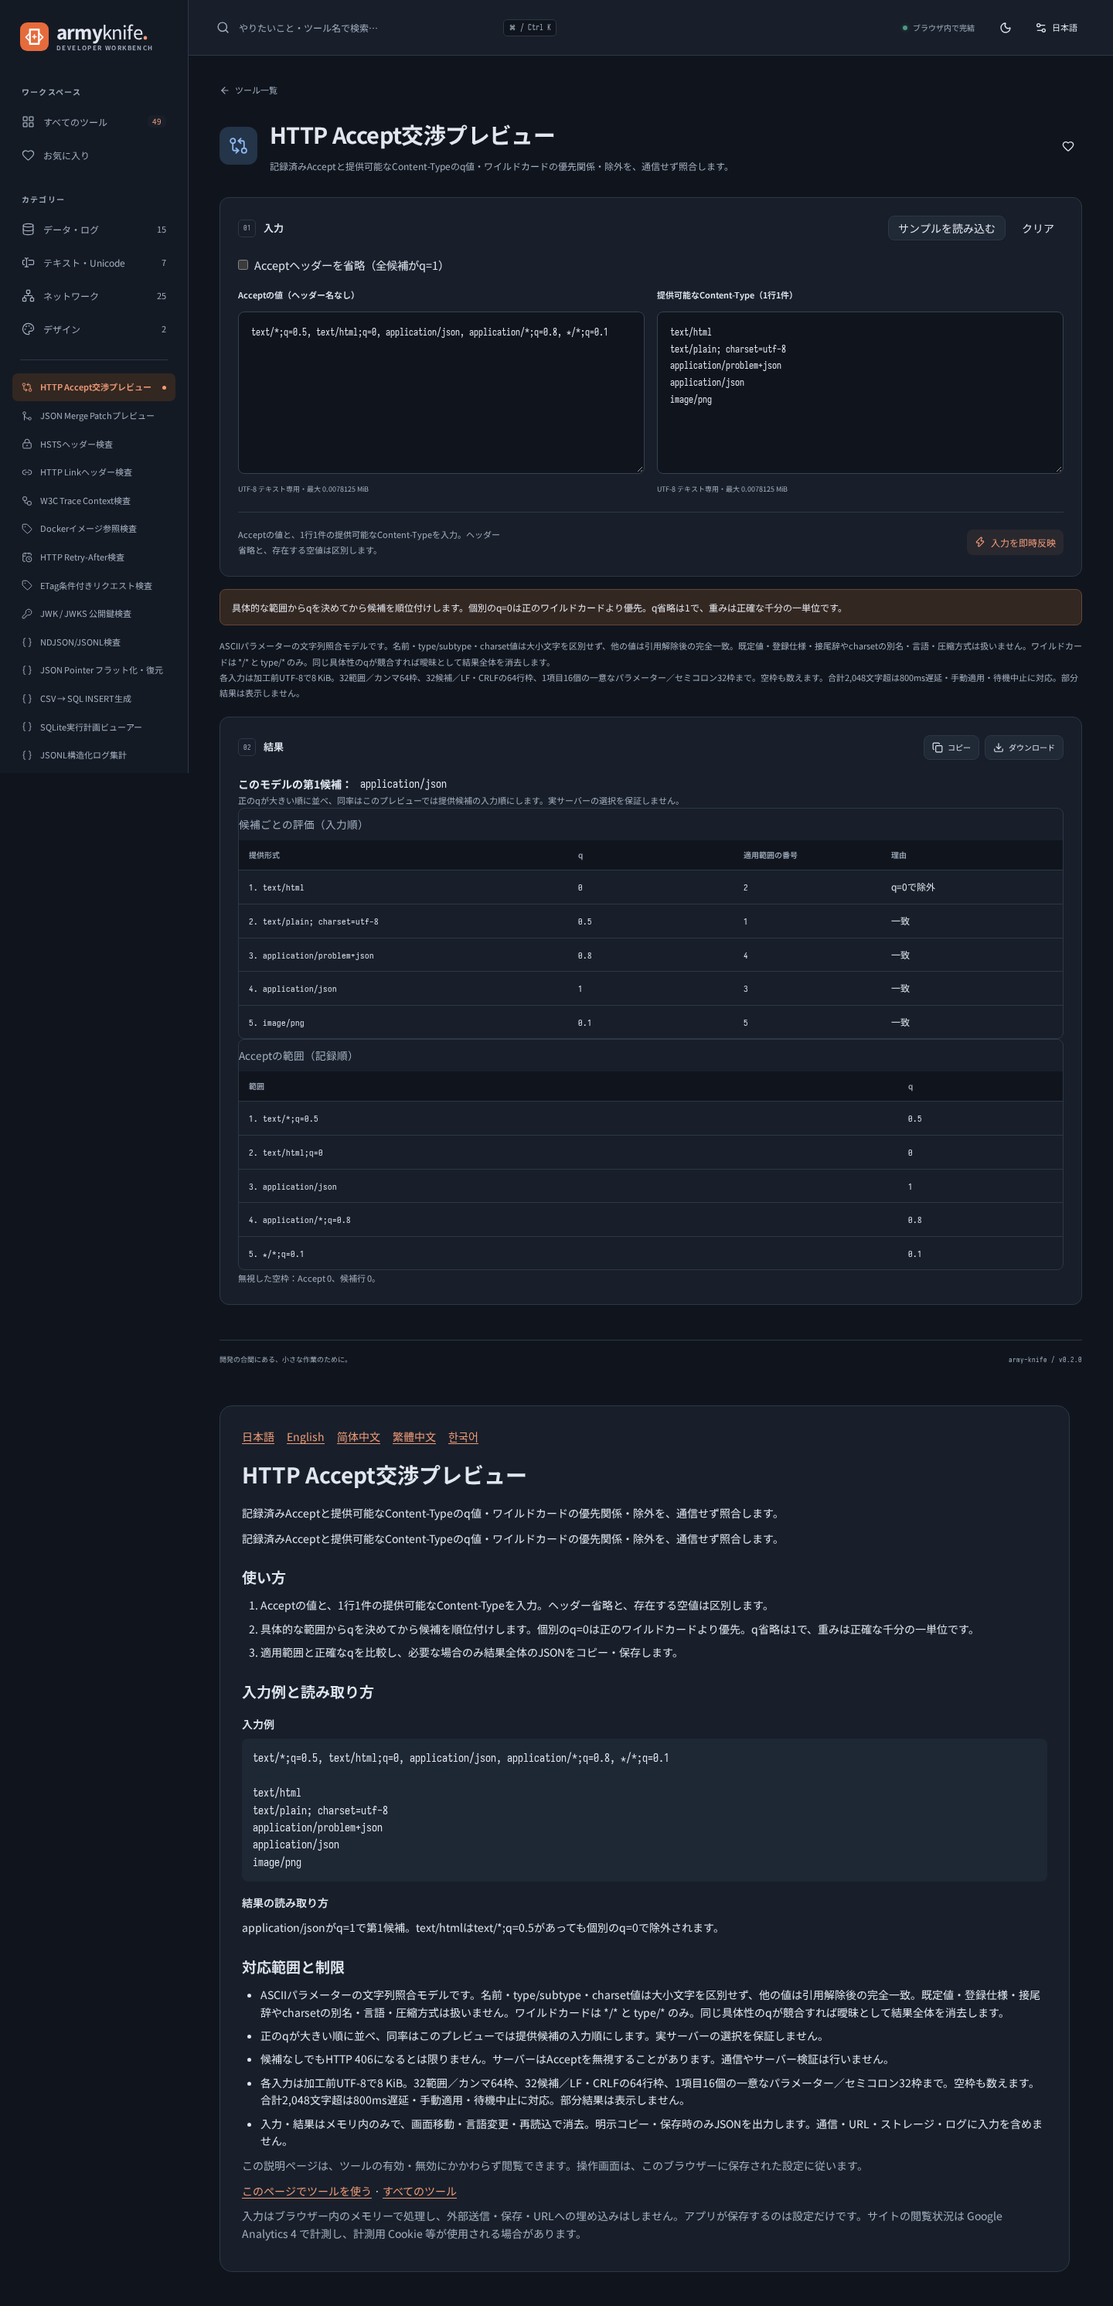
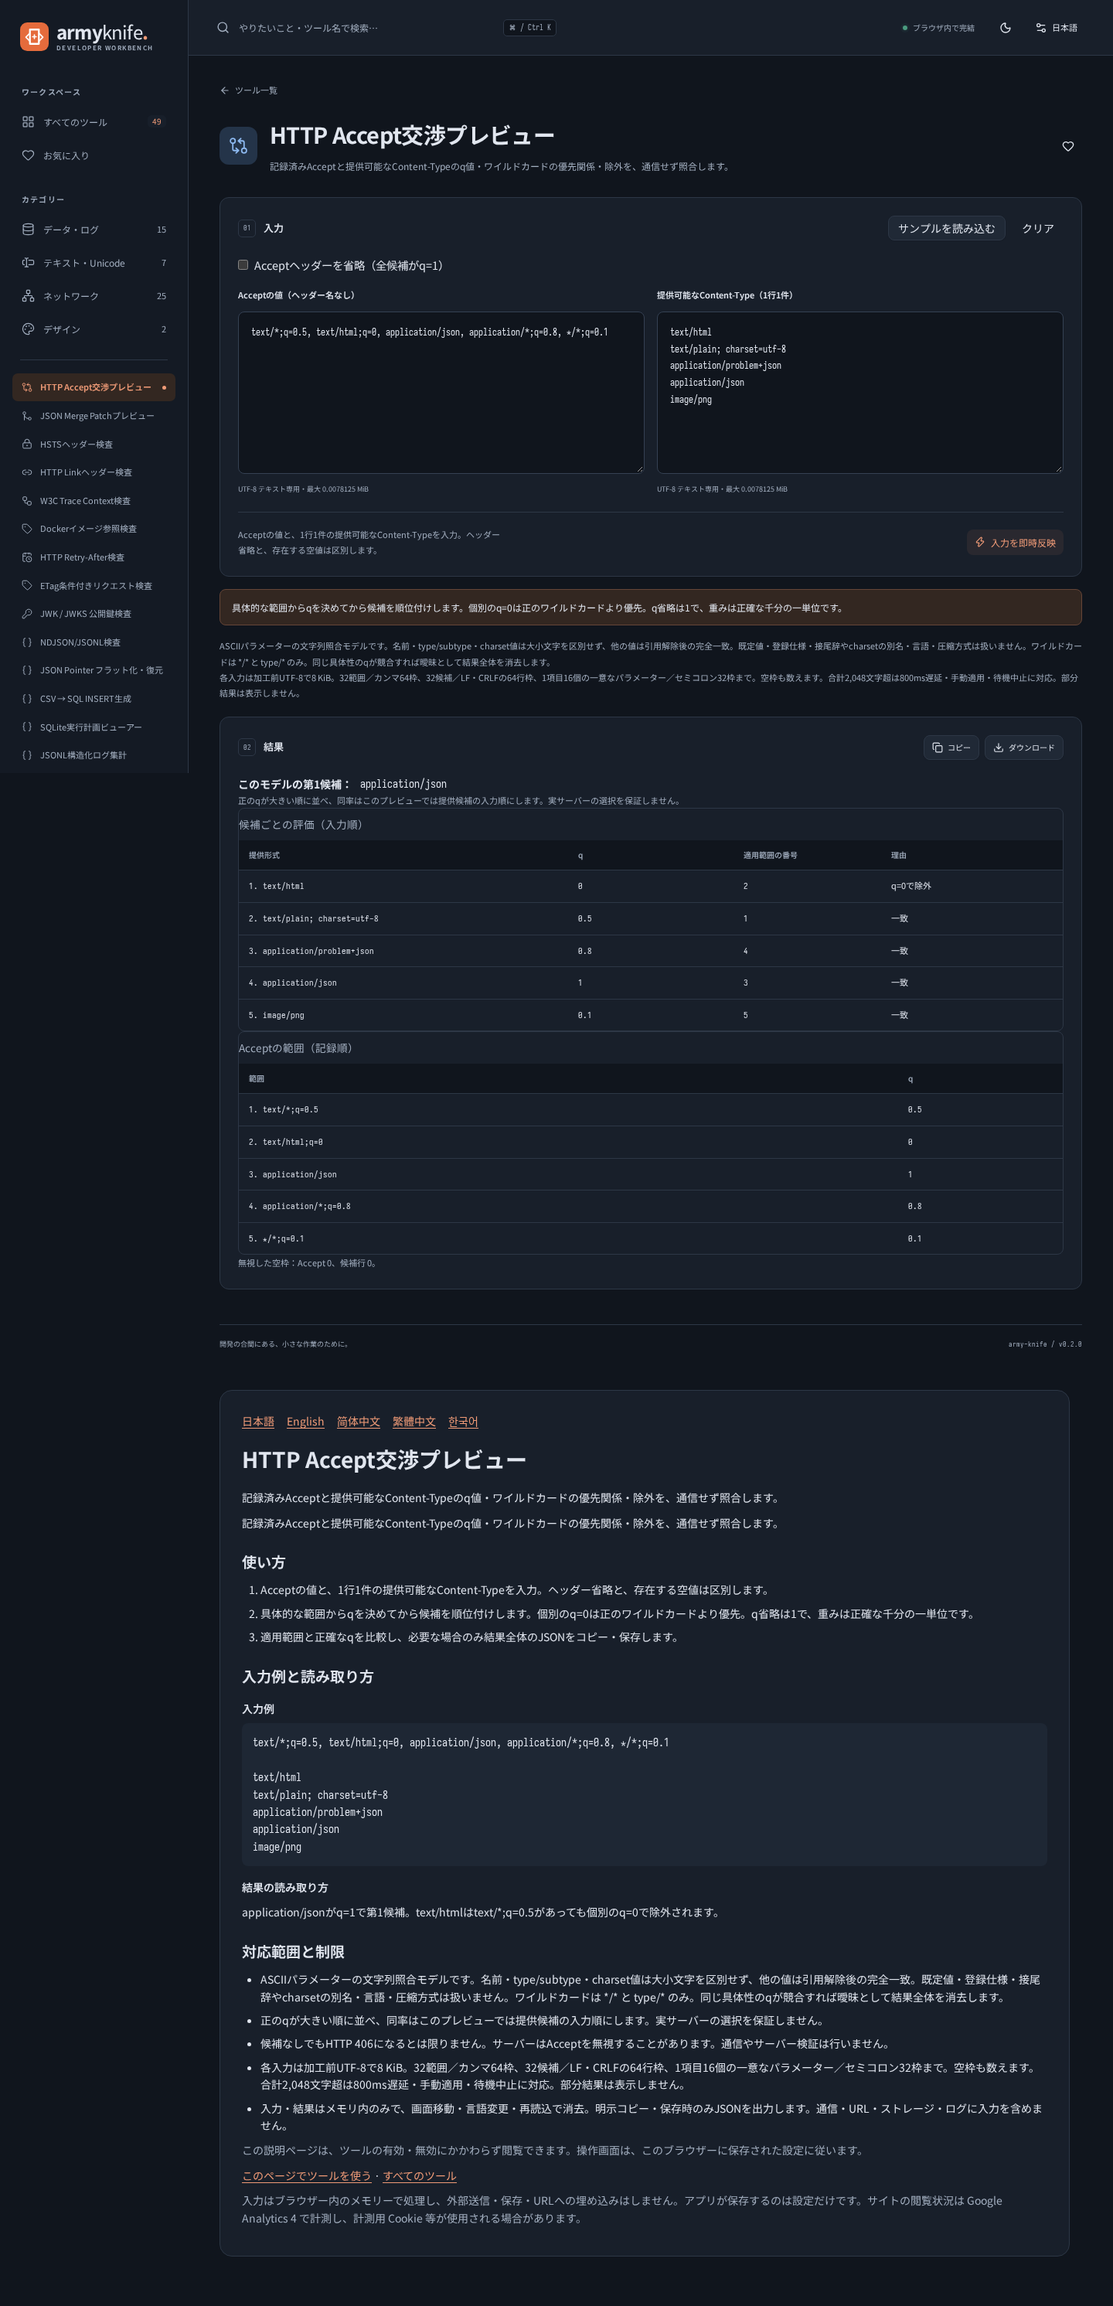
fix: align Accept input with shared tool launch contract

Changed region(s): [[0.1875, 0.3741, 0.9375, 0.9665], [0.7812, 0.4053, 0.8125, 0.4365], [0.5, 0.4053, 0.5312, 0.4365]]

diff --git a/tests/e2e/http-accept.spec.ts b/tests/e2e/http-accept.spec.ts
@@ -44,15 +44,15 @@ for (const locale of ['ja', 'en', 'zh-CN', 'zh-TW', 'ko'] as const) {
     await page.getByTestId('accept-sample').focus(); await page.keyboard.press('Enter');
     await expect(page.getByTestId('accept-selected')).toHaveText('application/json');
     await expect(page.getByTestId('accept-offer-1')).toContainText(m['accept.excluded']);
-    await page.locator('#accept-input').fill('TEXT/PLAIN;Q=0.001;CHARSET="UTF-8", */*;q=0.9');
+    await page.locator('#http-accept-input').fill('TEXT/PLAIN;Q=0.001;CHARSET="UTF-8", */*;q=0.9');
     await page.locator('#accept-offers').fill('text/plain;charset=utf-8\nimage/png');
     await expect(page.getByTestId('accept-offer-1')).toContainText('0.001');
     expect(await page.getByTestId('accept-offer-1').locator('td').nth(1).locator('code').evaluate(element => element.getClientRects().length)).toBe(1);
     await expect(page.getByTestId('accept-selected')).toHaveText('image/png');
-    await page.locator('#accept-input').fill(''); await expect(page.getByTestId('accept-none')).toBeVisible();
+    await page.locator('#http-accept-input').fill(''); await expect(page.getByTestId('accept-none')).toBeVisible();
     await expect(result).toContainText(m['accept.no406']);
     await page.getByTestId('accept-absent').focus(); await page.keyboard.press('Space');
-    await expect(page.locator('#accept-input')).toBeDisabled();
+    await expect(page.locator('#http-accept-input')).toBeDisabled();
     await expect(page.getByTestId('accept-selected')).toHaveText('text/plain;charset=utf-8');
     await page.getByTestId('accept-sample').click();
     for (const theme of ['light', 'dark'] as const) {
@@ -65,13 +65,13 @@ for (const locale of ['ja', 'en', 'zh-CN', 'zh-TW', 'ko'] as const) {
       await testInfo.attach(`http-accept-${locale}-${theme}`, { body: await page.screenshot({ fullPage: true, path }), contentType: 'image/png' });
     }
     await page.getByTestId('accept-clear').focus(); await page.keyboard.press('Enter');
-    await expect(result).toHaveCount(0); await expect(page.locator('#accept-input')).toHaveValue(''); await expect(page.locator('#accept-offers')).toHaveValue('');
+    await expect(result).toHaveCount(0); await expect(page.locator('#http-accept-input')).toHaveValue(''); await expect(page.locator('#accept-offers')).toHaveValue('');
   });
 }
 
 test('Accept exact explicit JSON download, inert values and memory-only lifecycle', async ({ page }) => {
   await page.goto('./en/tools/http-accept/');
-  await page.locator('#accept-input').fill('text/plain;q=0.001, */*;q=0');
+  await page.locator('#http-accept-input').fill('text/plain;q=0.001, */*;q=0');
   await page.locator('#accept-offers').fill('text/plain\nimage/png');
   const pending = page.waitForEvent('download');
   await page.getByTestId('accept-result').getByRole('button', { name: 'Download', exact: true }).click();
@@ -88,33 +88,33 @@ test('Accept exact explicit JSON download, inert values and memory-only lifecycl
     ], rankedOfferIndexes: [1], selectedOfferIndex: 1,
   });
   const hostile = `text/plain;profile="<script>${PRIVATE}</script><img src=https://example.invalid/${PRIVATE}>"`;
-  await page.locator('#accept-input').fill(hostile); await page.locator('#accept-offers').fill(hostile);
+  await page.locator('#http-accept-input').fill(hostile); await page.locator('#accept-offers').fill(hostile);
   await expect(page.getByTestId('accept-result')).toContainText(PRIVATE);
   await expect(page.getByTestId('accept-result').locator('script, img, a')).toHaveCount(0);
   expect(JSON.stringify(await page.evaluate(() => ({ local: { ...localStorage }, session: { ...sessionStorage }, url: location.href, cookie: document.cookie })))).not.toContain(PRIVATE);
-  await page.reload(); await expect(page.locator('#accept-input')).toHaveValue(''); await expect(page.locator('#accept-offers')).toHaveValue('');
+  await page.reload(); await expect(page.locator('#http-accept-input')).toHaveValue(''); await expect(page.locator('#accept-offers')).toHaveValue('');
   await expect(page.getByTestId('accept-result')).toHaveCount(0);
   await page.getByTestId('accept-sample').click(); await page.locator('.back-link').click(); await page.getByTestId('tool-card-http-accept').click();
-  await expect(page.locator('#accept-input')).toHaveValue(''); await expect(page.locator('#accept-offers')).toHaveValue('');
+  await expect(page.locator('#http-accept-input')).toHaveValue(''); await expect(page.locator('#accept-offers')).toHaveValue('');
   await page.getByTestId('accept-sample').click(); await page.getByTestId('settings-button').click(); await page.getByTestId('locale-select').selectOption('ja');
   await expect(page.getByRole('dialog')).toHaveCount(0); await expect(page.getByTestId('accept-result')).toHaveCount(0);
-  await expect(page.locator('#accept-input')).toHaveValue(''); await expect(page.locator('#accept-offers')).toHaveValue('');
+  await expect(page.locator('#http-accept-input')).toHaveValue(''); await expect(page.locator('#accept-offers')).toHaveValue('');
 });
 
 test('Accept rejects malformed, conflicting and oversized input without stale exports', async ({ page }) => {
   await page.goto('./en/tools/http-accept/');
   for (const value of ['Accept: text/plain', 'text/plain\n', 'text/plain;x="unclosed', 'text/plain;q=0.0001', 'application/*+json', 'text/plain;x=y;X=y', 'text/plain,text/plain;q=0', 'text/plain' + ','.repeat(64)]) {
-    await page.getByTestId('accept-sample').click(); await page.locator('#accept-offers').fill('text/plain'); await page.locator('#accept-input').fill(value);
+    await page.getByTestId('accept-sample').click(); await page.locator('#accept-offers').fill('text/plain'); await page.locator('#http-accept-input').fill(value);
     await expect(page.getByTestId('accept-result')).toHaveCount(0); await expect(page.locator('.output-actions')).toHaveCount(0); await expect(page.getByRole('alert')).toBeVisible();
   }
-  for (const id of ['accept-input', 'accept-offers']) {
+  for (const id of ['http-accept-input', 'accept-offers']) {
     await page.getByTestId('accept-sample').click();
     await page.locator(`#${id}`).evaluate(element => {
       const event = new Event('paste', { bubbles: true, cancelable: true });
       Object.defineProperty(event, 'clipboardData', { value: { getData: () => 'x'.repeat(8193) } }); element.dispatchEvent(event);
     });
     await expect(page.getByTestId('accept-result')).toHaveCount(0); await expect(page.locator('.output-actions')).toHaveCount(0);
-    await page.locator(id === 'accept-input' ? '#accept-offers' : '#accept-input').fill('text/plain');
+    await page.locator(id === 'http-accept-input' ? '#accept-offers' : '#http-accept-input').fill('text/plain');
     await expect(page.getByTestId('accept-result')).toHaveCount(0);
   }
   await page.getByTestId('accept-sample').click(); await expect(page.getByTestId('accept-selected')).toHaveText('application/json');
@@ -124,18 +124,18 @@ test('Accept combined-input debounce, cancel, manual apply, preference-only pers
   await page.clock.install({ time: new Date('2026-11-09T00:00:00Z') }); await page.goto('./en/tools/http-accept/');
   await page.clock.pauseAt(new Date('2026-11-09T01:00:00Z'));
   const long = ACCEPT_SAMPLE + ' '.repeat(2100);
-  await page.locator('#accept-offers').fill('text/plain'); await page.locator('#accept-input').fill(long);
+  await page.locator('#accept-offers').fill('text/plain'); await page.locator('#http-accept-input').fill(long);
   await expect(page.getByTestId('apply-control')).toHaveAttribute('data-status', 'pending');
-  await page.clock.runFor(400); await page.locator('#accept-input').fill(long + ' ');
+  await page.clock.runFor(400); await page.locator('#http-accept-input').fill(long + ' ');
   await page.clock.runFor(799); await expect(page.getByTestId('accept-result')).toHaveCount(0);
   await page.clock.runFor(1); await expect(page.getByTestId('accept-selected')).toHaveText('text/plain');
-  await page.locator('#accept-input').fill(long); await page.getByTestId('accept-cancel').click();
+  await page.locator('#http-accept-input').fill(long); await page.getByTestId('accept-cancel').click();
   await page.clock.runFor(1000); await expect(page.getByTestId('accept-result')).toHaveCount(0);
   await page.getByTestId('apply-now').click(); await expect(page.getByTestId('accept-selected')).toHaveText('text/plain');
-  await page.locator('#accept-input').fill(long + ' '); await page.getByTestId('auto-apply-toggle').uncheck();
+  await page.locator('#http-accept-input').fill(long + ' '); await page.getByTestId('auto-apply-toggle').uncheck();
   await page.clock.runFor(1000); await expect(page.getByTestId('accept-result')).toHaveCount(0);
   await page.getByTestId('apply-now').click(); await expect(page.getByTestId('accept-selected')).toHaveText('text/plain');
-  await page.reload(); await page.locator('#accept-offers').fill('text/plain'); await page.locator('#accept-input').fill(long);
+  await page.reload(); await page.locator('#accept-offers').fill('text/plain'); await page.locator('#http-accept-input').fill(long);
   await expect(page.getByTestId('apply-control')).toHaveAttribute('data-status', 'manual');
   await page.getByTestId('accept-sample').click(); await expect(page.getByTestId('accept-selected')).toHaveText('application/json');
 });

diff --git a/src/components/tools/HttpAcceptTool.test.ts b/src/components/tools/HttpAcceptTool.test.ts
@@ -29,10 +29,10 @@ describe("HTTP Accept real Vapor workflow", () => {
     expect(result().exists()).toBe(false); await sample();
     expect(wrapper.get('[data-testid="accept-selected"]').text()).toBe("application/json");
     expect(wrapper.get('[data-testid="accept-offer-1"]').text()).toContain("Excluded by q=0");
-    await wrapper.get("#accept-input").setValue("text/plain;q=0.001");
+    await wrapper.get("#http-accept-input").setValue("text/plain;q=0.001");
     expect(wrapper.get('[data-testid="accept-selected"]').text()).toBe("text/plain; charset=utf-8");
     expect(wrapper.get('[data-testid="accept-offer-2"]').text()).toContain("0.001");
-    await wrapper.get("#accept-input").setValue("bad");
+    await wrapper.get("#http-accept-input").setValue("bad");
     expect(result().exists()).toBe(false); expect(wrapper.find('.output-actions').exists()).toBe(false);
     await sample(); await wrapper.get("#accept-offers").setValue("text/*");
     expect(result().exists()).toBe(false); expect(wrapper.get('[role="alert"]').text()).toContain("concrete");
@@ -43,14 +43,14 @@ describe("HTTP Accept real Vapor workflow", () => {
     expect(wrapper.find('[data-testid="accept-none"]').exists()).toBe(true);
     expect(result().text()).toContain("HTTP 406");
     await wrapper.get('[data-testid="accept-absent"]').setValue(true);
-    expect(wrapper.get("#accept-input").attributes("disabled")).toBeDefined();
+    expect(wrapper.get("#http-accept-input").attributes("disabled")).toBeDefined();
     expect(wrapper.get('[data-testid="accept-selected"]').text()).toBe("text/plain");
     await wrapper.get('[data-testid="accept-absent"]').setValue(false);
     expect(wrapper.find('[data-testid="accept-none"]').exists()).toBe(true);
   });
   it("renders quoted values inert and exports the complete exact report only on request", async () => {
     const input = 'text/plain;profile="<script>PRIVATE_ACCEPT_4819</script>"';
-    await wrapper.get("#accept-input").setValue(input); await wrapper.get("#accept-offers").setValue(input);
+    await wrapper.get("#http-accept-input").setValue(input); await wrapper.get("#accept-offers").setValue(input);
     expect(result().text()).toContain("PRIVATE_ACCEPT_4819");
     expect(result().find('script, a, img').exists()).toBe(false); expect(copy).not.toHaveBeenCalled();
     await result().get('.output-actions button').trigger("click"); await flushPromises();
@@ -61,14 +61,14 @@ describe("HTTP Accept real Vapor workflow", () => {
     await wrapper.get('[data-testid="accept-clear"]').trigger("click"); expect(result().exists()).toBe(false);
   });
   it("keeps rejected edits invalid per input until that input is accepted", async () => {
-    await sample(); await reject("#accept-input");
+    await sample(); await reject("#http-accept-input");
     expect(result().exists()).toBe(false);
     await wrapper.get("#accept-offers").setValue("text/plain"); expect(result().exists()).toBe(false);
-    await wrapper.get("#accept-input").setValue("*/*"); expect(result().exists()).toBe(true);
-    await reject("#accept-offers"); await wrapper.get("#accept-input").setValue("text/*");
+    await wrapper.get("#http-accept-input").setValue("*/*"); expect(result().exists()).toBe(true);
+    await reject("#accept-offers"); await wrapper.get("#http-accept-input").setValue("text/*");
     expect(result().exists()).toBe(false); expect(wrapper.find('.output-actions').exists()).toBe(false);
     await wrapper.get("#accept-offers").setValue("text/plain"); expect(result().exists()).toBe(true);
-    await reject("#accept-input"); await wrapper.get('[data-testid="accept-absent"]').setValue(true);
+    await reject("#http-accept-input"); await wrapper.get('[data-testid="accept-absent"]').setValue(true);
     expect(result().exists()).toBe(true);
     await wrapper.get('[data-testid="accept-absent"]').setValue(false); expect(result().exists()).toBe(false);
     await sample(); expect(result().exists()).toBe(true);
@@ -76,18 +76,18 @@ describe("HTTP Accept real Vapor workflow", () => {
   it("uses combined active input length for 800ms scheduling, cancel, manual apply and disposal", async () => {
     vi.useFakeTimers(); await sample();
     const header = ACCEPT_SAMPLE + ' '.repeat(1000), offers = 'text/plain' + ' '.repeat(1100);
-    await wrapper.get("#accept-input").setValue(header); await wrapper.get("#accept-offers").setValue(offers);
+    await wrapper.get("#http-accept-input").setValue(header); await wrapper.get("#accept-offers").setValue(offers);
     expect(wrapper.get('[data-testid="apply-control"]').attributes("data-status")).toBe("pending");
     expect(result().exists()).toBe(false); await vi.advanceTimersByTimeAsync(799); expect(result().exists()).toBe(false);
     await vi.advanceTimersByTimeAsync(1); expect(result().exists()).toBe(true);
-    await wrapper.get("#accept-input").setValue(header + ' '); await wrapper.get('[data-testid="accept-cancel"]').trigger('click');
+    await wrapper.get("#http-accept-input").setValue(header + ' '); await wrapper.get('[data-testid="accept-cancel"]').trigger('click');
     await vi.advanceTimersByTimeAsync(1000); expect(result().exists()).toBe(false);
     await wrapper.get('[data-testid="apply-now"]').trigger('click'); expect(result().exists()).toBe(true);
     await wrapper.get("#accept-offers").setValue(offers + ' '); await wrapper.get('[data-testid="auto-apply-toggle"]').setValue(false);
     await vi.advanceTimersByTimeAsync(1000); expect(result().exists()).toBe(false);
     await wrapper.get('[data-testid="apply-now"]').trigger('click'); expect(result().exists()).toBe(true);
     wrapper.unmount(); wrapper = mountTool(); await vi.advanceTimersByTimeAsync(1000);
-    expect(result().exists()).toBe(false); expect(wrapper.get('#accept-input').element).toHaveProperty('value', '');
+    expect(result().exists()).toBe(false); expect(wrapper.get('#http-accept-input').element).toHaveProperty('value', '');
     expect(wrapper.get('#accept-offers').element).toHaveProperty('value', '');
   });
   it("localizes all parser codes and guides in five languages without logging input", async () => {
@@ -96,7 +96,7 @@ describe("HTTP Accept real Vapor workflow", () => {
       i18n.global.locale.value = locale; await nextTick(); await sample();
       expect(result().exists()).toBe(true); expect(wrapper.text()).not.toContain('accept.scope');
       for (const input of ['PRIVATE_ACCEPT_4819: bad', 'text/plain;q=2', 'text/plain;x=a;X=b', 'application/*+json', 'text/plain,text/plain;q=0', 'text/plain' + ','.repeat(64)]) {
-        await wrapper.get('#accept-input').setValue(input); await wrapper.get('#accept-offers').setValue('text/plain');
+        await wrapper.get('#http-accept-input').setValue(input); await wrapper.get('#accept-offers').setValue('text/plain');
         expect(wrapper.get('[role="alert"]').text()).not.toMatch(/errors\.ACCEPT_|PRIVATE_ACCEPT_4819/);
         expect(result().exists()).toBe(false);
       }

diff --git a/src/components/tools/HttpAcceptTool.vue b/src/components/tools/HttpAcceptTool.vue
@@ -39,7 +39,7 @@ function replace(example: boolean) {
     </div>
     <label class="accept-absent"><input v-model="absent" type="checkbox" data-testid="accept-absent" />{{ t("accept.absent") }}</label>
     <div class="accept-inputs">
-      <CodeInput :key="`accept:${revision}`" :model-value="accept" :label="t('accept.input')" input-id="accept-input" :rows="6" :file="false" :disabled="absent" :max-bytes="ACCEPT_LIMITS.bytes" :placeholder="ACCEPT_SAMPLE" @update:model-value="accept = $event; acceptRejected = false" @rejected="acceptRejected = true" />
+      <CodeInput :key="`accept:${revision}`" :model-value="accept" :label="t('accept.input')" input-id="http-accept-input" :rows="6" :file="false" :disabled="absent" :max-bytes="ACCEPT_LIMITS.bytes" :placeholder="ACCEPT_SAMPLE" @update:model-value="accept = $event; acceptRejected = false" @rejected="acceptRejected = true" />
       <CodeInput :key="`offers:${revision}`" :model-value="offered" :label="t('accept.offers')" input-id="accept-offers" :rows="6" :file="false" :max-bytes="ACCEPT_LIMITS.bytes" :placeholder="ACCEPT_OFFERS_SAMPLE" @update:model-value="offered = $event; offersRejected = false" @rejected="offersRejected = true" />
     </div>
     <div class="run-bar">

diff --git a/docs/http-accept.md b/docs/http-accept.md
@@ -110,3 +110,11 @@ Lint reports ten pre-existing warnings in unchanged files; the build retains
 its pre-existing large-i18n-chunk warning. No check or test setting was changed.
 Final-head CI and the existing main Pages run are recorded in the PR and are
 required before release completion.
+
+The primary input uses the shared `#${toolId}-input` launch contract. The first
+full local run exposed a naming mismatch; the view and dedicated selectors
+were corrected, leaving the shared launch tests unchanged. An independent
+registration review found no other gaps and passed 73 related tests. After
+rebuilding, all 32 dedicated cases plus the four unchanged first-batch launch
+cases passed (36 total, no retry/skip), and the complete 1,594 unit/Vapor/build
+checks passed again. The final-head complete CI remains the release gate.
